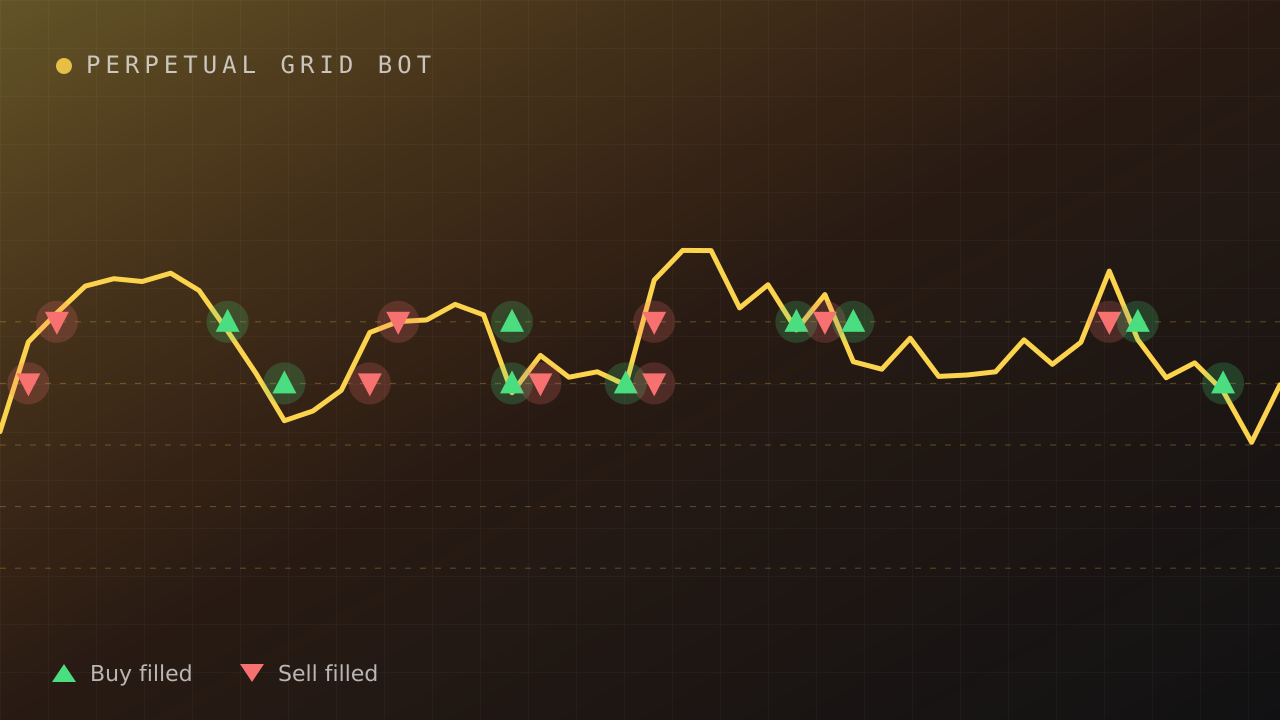
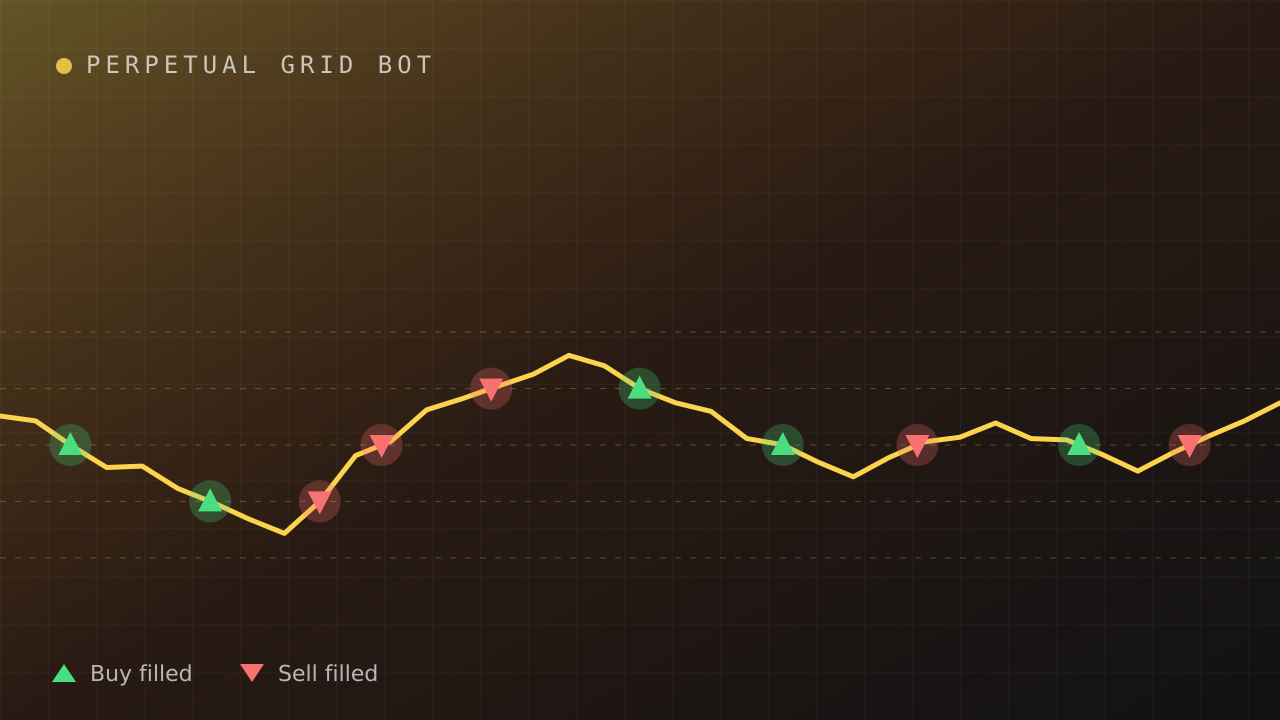
Fix calendar build, redraw grid bot cover, refocus hero on analyst roles
- Discipline Calendar: use npm install in the Pages build (lockfile was out of sync)
- Grid bot cover: fills sit exactly on the price line, 5 buys and 5 sells
- Hero pill and role: research and analyst roles with Web3 community background
- Contact text updated to match

Claude-Session: https://claude.ai/code/session_016oLdAnzswR8SVrzzRFUrZG

diff --git a/projects/things-i-built/src/widgets/contact-block/ui/contact-block.tsx b/projects/things-i-built/src/widgets/contact-block/ui/contact-block.tsx
@@ -20,7 +20,7 @@ export function ContactBlock() {
           <div className="relative">
             <p className="mb-3 font-mono text-xs tracking-[0.2em] text-accent uppercase">Contact</p>
             <h2 id="contact-title" className="mx-auto max-w-2xl text-3xl font-semibold tracking-tight text-balance sm:text-5xl">
-              If you are hiring for research, growth, or builder work, I would like to hear from you.
+              If you are hiring for research, analyst or Web3 community work, I would like to hear from you.
             </h2>
             <div className="mt-9 flex flex-wrap justify-center gap-3">
               <ButtonLink href={`mailto:${email}`}>

diff --git a/projects/things-i-built/src/widgets/hero/ui/hero.tsx b/projects/things-i-built/src/widgets/hero/ui/hero.tsx
@@ -53,7 +53,7 @@ export function Hero({ projects }: { projects: readonly Project[] }) {
         <div>
           <p className="border-border bg-card/60 text-muted mb-6 inline-flex items-center gap-2 rounded-full border px-3 py-1 text-sm">
             <span className="size-1.5 rounded-full bg-emerald-400" aria-hidden />
-            Open to on-chain research, Web3 growth and builder roles
+            Open to research and analyst roles · Web3 community background
           </p>
           <h1 id="hero-title" className="text-4xl font-semibold tracking-tight text-balance sm:text-6xl">
             I turn crypto research into{" "}

diff --git a/projects/things-i-built/src/shared/config/site.ts b/projects/things-i-built/src/shared/config/site.ts
@@ -3,8 +3,8 @@ const siteUrl = (process.env.NEXT_PUBLIC_SITE_URL ?? "http://localhost:3000").re
 export const siteConfig = {
   name: "Bohdan Maistrenko",
   shortName: "Things I Built",
-  title: "Bohdan Maistrenko: on-chain research and builder",
-  role: "On-chain research and builder",
+  title: "Bohdan Maistrenko: research analyst and builder",
+  role: "Research analyst and builder",
   description:
     "I turn crypto research into working tools: dashboards, bots and agents. Arkham community manager, former P&G process engineer.",
   url: siteUrl,

diff --git a/projects/things-i-built/scripts/make-covers.py b/projects/things-i-built/scripts/make-covers.py
@@ -39,27 +39,45 @@ def line(vals, x0, x1, top, bot, width, color, opacity=1):
     return f'<polyline points="{pts}" fill="none" stroke="{color}" stroke-width="{width}" stroke-linejoin="round" stroke-linecap="round" stroke-opacity="{opacity}"/>', pts
 
 def grid_bot():
-    # Same look as the generated cover (amber), plus grid levels and buy/sell fills.
+    """Amber cover: a price path through a 5-level grid. Fills sit exactly where the line crosses
+    a level: crossing downward = buy, crossing upward = sell. Five of each."""
     x0, x1, top, bot = 0, W, 250, 640
-    rnd = random.Random(8)
-    vals, v = [], 50.0
-    for i in range(46):
-        v += rnd.gauss(0, 7) + (50 - v) * 0.1
-        vals.append(min(90, max(10, v)))
-    levels = [26, 38, 50, 62, 74]
+    levels = [28, 39, 50, 61, 72]
     ly = lambda lv: bot - (bot - top) * (lv - 12) / 76
-    out = [f'<line x1="0" x2="{W}" y1="{ly(l):.1f}" y2="{ly(l):.1f}" stroke="#fcd34d" stroke-opacity=".28" stroke-dasharray="6 9"/>' for l in levels]
-    path_svg, pts = line(vals, x0, x1, top, bot, 5, "#fcd34d")
-    out.append(path_svg)
-    xs = lambda i: x0 + (x1 - x0) * i / (len(vals) - 1)
-    for i in range(1, len(vals)):
-        for lv in levels:
+
+    def crossings(vals):
+        res = []
+        for i in range(1, len(vals)):
             a, b = vals[i - 1], vals[i]
-            if (a - lv) * (b - lv) < 0:
-                buy = b < a  # crossed the level downward -> buy; upward -> sell
-                cx, cy, col, d = xs(i), ly(lv), (GREEN if buy else RED), (-1 if buy else 1)
-                out.append(f'<circle cx="{cx:.1f}" cy="{cy:.1f}" r="21" fill="{col}" fill-opacity=".2"/>')
-                out.append(f'<polygon points="{cx:.1f},{cy+13*d:.1f} {cx-12:.1f},{cy-10*d:.1f} {cx+12:.1f},{cy-10*d:.1f}" fill="{col}"/>')
+            for lv in levels:
+                if (a - lv) * (b - lv) < 0:
+                    res.append((i - 1 + (lv - a) / (b - a), lv, "buy" if b < a else "sell"))
+        return res
+
+    # Designed swings (turning points every 4 steps), noise only away from the levels.
+    knots = [55.5, 44.3, 33.2, 56.6, 66.3, 55.6, 44.5, 56.7, 45.3, 58.2]
+    rnd = random.Random(3)
+    vals = []
+    for k in range(len(knots) - 1):
+        for j in range(4):
+            base = knots[k] + (knots[k + 1] - knots[k]) * j / 4
+            near = min(abs(base - l) for l in levels) < 2.6
+            vals.append(base + (0 if near else rnd.gauss(0, 1.6)))
+    vals.append(knots[-1])
+    cr = crossings(vals)
+    assert len(cr) == 10 and sum(1 for c in cr if c[2] == "buy") == 5, cr
+
+    n = len(vals)
+    xs = lambda t: x0 + (x1 - x0) * t / (n - 1)
+    out = [f'<line x1="0" x2="{W}" y1="{ly(l):.1f}" y2="{ly(l):.1f}" stroke="#fcd34d" stroke-opacity=".28" stroke-dasharray="6 9"/>' for l in levels]
+    path_svg, _ = line(vals, x0, x1, top, bot, 5, "#fcd34d")
+    out.append(path_svg)
+    for t, lv, side in cr:
+        cx, cy = xs(t), ly(lv)
+        buy = side == "buy"
+        col, d = (GREEN if buy else RED), (-1 if buy else 1)
+        out.append(f'<circle cx="{cx:.1f}" cy="{cy:.1f}" r="21" fill="{col}" fill-opacity=".25"/>')
+        out.append(f'<polygon points="{cx:.1f},{cy+13*d:.1f} {cx-12:.1f},{cy-10*d:.1f} {cx+12:.1f},{cy-10*d:.1f}" fill="{col}"/>')
     out.append(f'<polygon points="64,664 52,682 76,682" fill="{GREEN}"/><text x="90" y="681" fill="#fafafa" fill-opacity=".7" font-family="DejaVu Sans, sans-serif" font-size="22">Buy filled</text>')
     out.append(f'<polygon points="252,682 240,664 264,664" fill="{RED}"/><text x="278" y="681" fill="#fafafa" fill-opacity=".7" font-family="DejaVu Sans, sans-serif" font-size="22">Sell filled</text>')
     return frame("PERPETUAL GRID BOT", "#fcd34d", "#f97316", "#fcd34d", "\n".join(out))
